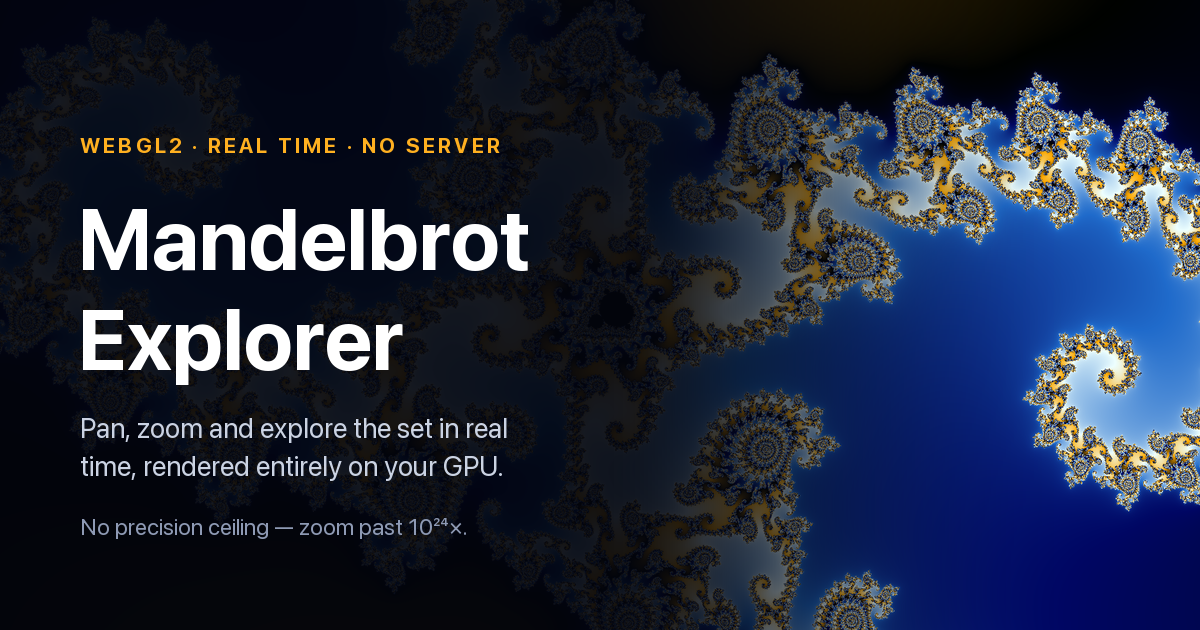
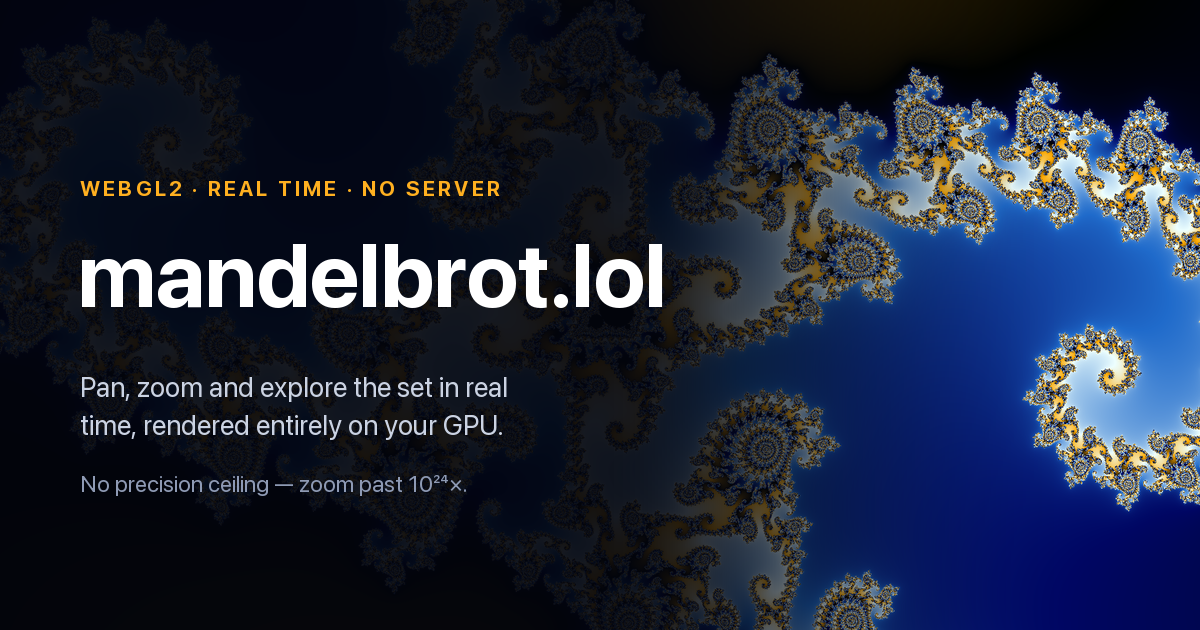
Rebrand to mandelbrot.lol
The site is served from its own domain now, so the domain becomes the
name. The descriptive tail stays on the <title> — it is the strongest
on-page SEO field and "mandelbrot.lol" alone carries no keywords.

- SITE_NAME is "mandelbrot.lol", which flows to the h1, og:site_name,
  applicationName, the title template, manifest short_name and the
  JSON-LD name. SITE_TITLE keeps the tail.
- New SITE_ALT_NAME holds the old "Mandelbrot Explorer". JSON-LD
  alternateName pointed at SITE_TITLE, which after the rename would
  just have restated name plus the tail; the former name is what that
  field is actually for, and it keeps the entity findable under both.
- FALLBACK_SITE_URL now matches the real domain. It is only a fallback —
  Vercel injects VERCEL_PROJECT_PRODUCTION_URL, which is what resolved
  in production and is how the site was already emitting mandelbrot.lol
  without the domain appearing anywhere in the code — but a local or
  non-Vercel build should not emit a different canonical URL.
- The welcome dialog's heading was a hardcoded string, so it would have
  been missed by the rename; it reads SITE_NAME now.
- Social card re-rendered: the name is pixels in that PNG. The title is
  one line and auto-fitted to the scrim's opaque plateau, since a long
  brand would otherwise overrun it. The icons come out byte-identical,
  which is a reasonable check that the renderer is deterministic.

python/webpage.py still says "Mandelbrot Explorer" on purpose: that is
[…]

diff --git a/web/lib/site.ts b/web/lib/site.ts
@@ -8,11 +8,12 @@
  */
 
 /**
- * Deployed production origin. Taken from the GitHub repository's homepage
- * (`scheuclu/mandelbrot_explorer`); there is no `vercel.json` pinning a domain.
- * Override it with `NEXT_PUBLIC_SITE_URL` once a custom domain exists.
+ * Deployed production origin. Only a fallback: on Vercel the build injects
+ * VERCEL_PROJECT_PRODUCTION_URL, which is what actually resolves in
+ * production. Kept in sync with the custom domain so local builds and any
+ * non-Vercel host emit the same canonical URL.
  */
-const FALLBACK_SITE_URL = "https://mandelbrot-eosin.vercel.app";
+const FALLBACK_SITE_URL = "https://mandelbrot.lol";
 
 function resolveSiteUrl(): string {
   const explicit = process.env.NEXT_PUBLIC_SITE_URL;
@@ -26,10 +27,16 @@ function resolveSiteUrl(): string {
 
 export const SITE_URL = resolveSiteUrl();
 
-export const SITE_NAME = "Mandelbrot Explorer";
+export const SITE_NAME = "mandelbrot.lol";
+
+/**
+ * What the site was called before the domain became the brand. Kept as the
+ * schema.org alternateName so the entity stays findable under both.
+ */
+export const SITE_ALT_NAME = "Mandelbrot Explorer";
 
 export const SITE_TITLE =
-  "Mandelbrot Explorer — Interactive Fractal Deep Zoom in Your Browser";
+  "mandelbrot.lol — Interactive Fractal Deep Zoom in Your Browser";
 
 export const SITE_TAGLINE =
   "Interactive deep-zoom fractal viewer, rendered live on your GPU.";

diff --git a/web/app/page.tsx b/web/app/page.tsx
@@ -2,9 +2,9 @@ import { MandelbrotExplorer } from "@/components/MandelbrotExplorer";
 import { SiteInfo } from "@/components/SiteInfo";
 import {
   AUTHOR,
+  SITE_ALT_NAME,
   SITE_DESCRIPTION,
   SITE_NAME,
-  SITE_TITLE,
   SITE_URL,
 } from "@/lib/site";
 
@@ -13,7 +13,7 @@ const jsonLd = {
   "@type": "WebApplication",
   "@id": `${SITE_URL}/#webapp`,
   name: SITE_NAME,
-  alternateName: SITE_TITLE,
+  alternateName: SITE_ALT_NAME,
   url: SITE_URL,
   description: SITE_DESCRIPTION,
   applicationCategory: "EducationalApplication",

diff --git a/web/components/WelcomeDialog.tsx b/web/components/WelcomeDialog.tsx
@@ -9,6 +9,8 @@ import {
   useSyncExternalStore,
 } from "react";
 
+import { SITE_NAME } from "@/lib/site";
+
 /**
  * Bump the version suffix to show the dialog again to everyone after a
  * meaningful content change.
@@ -171,7 +173,7 @@ export function WelcomeDialog({ open, onClose }: WelcomeDialogProps) {
         </button>
 
         <h2 id={titleId} className="pr-8 text-lg font-semibold text-white/90">
-          Mandelbrot Explorer
+          {SITE_NAME}
         </h2>
 
         <p

diff --git a/python/tools/gen_brand_assets.py b/python/tools/gen_brand_assets.py
@@ -22,6 +22,10 @@ from PIL import Image, ImageDraw, ImageFont
 ROOT = Path(__file__).resolve().parents[2]
 APP = ROOT / "web" / "app"
 
+# Keep in sync with SITE_NAME in web/lib/site.ts. Baked into the social card
+# as pixels, so a rename there means re-running this script.
+SITE_NAME = "mandelbrot.lol"
+
 # Escape radius. Large enough that the smooth-iteration term below is accurate.
 BAILOUT = 1e4
 LOG2 = math.log(2.0)
@@ -149,6 +153,15 @@ def load_font(size: int, bold: bool) -> ImageFont.FreeTypeFont:
     )
 
 
+def fit_font(text: str, max_width: float, max_size: int, min_size: int = 44):
+    """Largest bold size at which `text` still fits `max_width`."""
+    for size in range(max_size, min_size - 1, -2):
+        font = load_font(size, bold=True)
+        if font.getlength(text) <= max_width:
+            return font
+    return load_font(min_size, bold=True)
+
+
 def draw_tracked(
     draw: ImageDraw.ImageDraw, xy, text: str, font, fill, tracking: float = 0.0
 ) -> None:
@@ -193,19 +206,24 @@ def render_social(w: int = 1200, h: int = 630) -> Image.Image:
     draw = ImageDraw.Draw(img)
     draw_tracked(
         draw,
-        (80, 132),
+        (80, 175),
         "WEBGL2 · REAL TIME · NO SERVER",
         load_font(21, bold=True),
         (255, 176, 32),
         tracking=3.2,
     )
-    draw.text((78, 186), "Mandelbrot", font=load_font(86, bold=True), fill=(255, 255, 255))
-    draw.text((78, 286), "Explorer", font=load_font(86, bold=True), fill=(255, 255, 255))
-    body = load_font(28, bold=False)
-    draw.text((80, 410), "Pan, zoom and explore the set in real", font=body, fill=(203, 211, 227))
-    draw.text((80, 448), "time, rendered entirely on your GPU.", font=body, fill=(203, 211, 227))
+    # Sized to the scrim's fully-opaque plateau, not to the canvas.
     draw.text(
-        (80, 512),
+        (78, 219),
+        SITE_NAME,
+        font=fit_font(SITE_NAME, max_width=590, max_size=92),
+        fill=(255, 255, 255),
+    )
+    body = load_font(28, bold=False)
+    draw.text((80, 369), "Pan, zoom and explore the set in real", font=body, fill=(203, 211, 227))
+    draw.text((80, 407), "time, rendered entirely on your GPU.", font=body, fill=(203, 211, 227))
+    draw.text(
+        (80, 469),
         "No precision ceiling — zoom past 10²⁴×.",
         font=load_font(23, bold=False),
         fill=(142, 154, 180),
@@ -243,8 +261,8 @@ def main(preview: Path | None = None) -> None:
     social.save(APP / "opengraph-image.png", optimize=True)
     social.save(APP / "twitter-image.png", optimize=True)
     alt = (
-        "Mandelbrot Explorer — a deep zoom into Seahorse Valley of the "
-        "Mandelbrot set, rendered in the browser on the GPU."
+        f"{SITE_NAME} — a deep zoom into Seahorse Valley of the Mandelbrot "
+        "set, rendered in the browser on the GPU."
     )
     # No trailing newline: Next inlines the file verbatim into the
     # og:image:alt attribute, newline and all.

diff --git a/web/README.md b/web/README.md
@@ -1,4 +1,4 @@
-# Mandelbrot Explorer — web
+# mandelbrot.lol — web
 
 Real-time Mandelbrot explorer. Next.js shell, all rendering in a WebGL2 fragment
 shader on the client.
